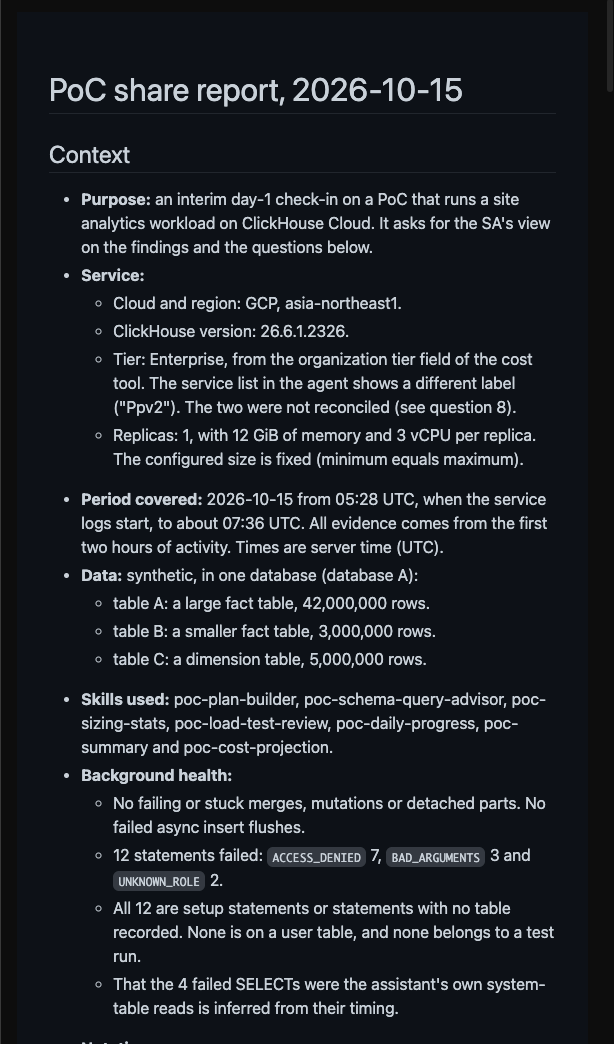
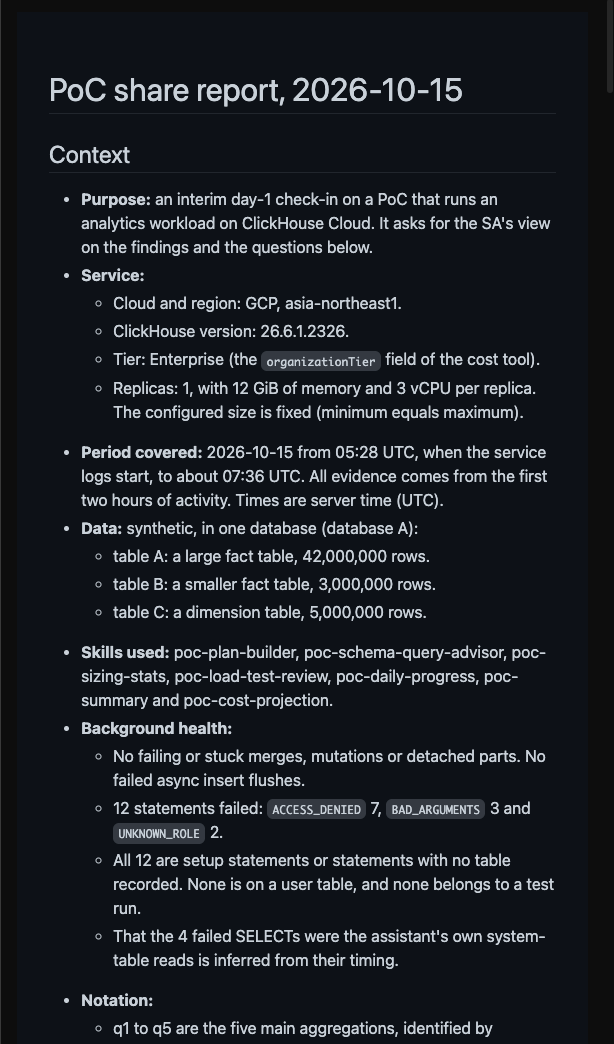
Report the tier only from organizationTier and keep the pre-check to what was read
- checks-cloud-service, sharing and poc-sizing-stats: the tier comes only from
  organizationTier; other labels from the service list are not reported as the
  tier, compared with it, or raised as a question.
- Skills that read logs: while waiting for the pre-check answer, state only
  what was read in this conversation.
- docs/images/en/5-share-report.png retaken after the fix.

Changed region(s): [[0.1238, 0.3372, 0.8974, 1.0], [0.8046, 0.1839, 0.8355, 0.2146]]

diff --git a/clickhouse-agents/skills/poc-sizing-stats/SKILL.md b/clickhouse-agents/skills/poc-sizing-stats/SKILL.md
@@ -14,7 +14,7 @@ You collect statistics used to size a production service. You read **system tabl
 - Every number you report comes from a query result in this conversation. Do not estimate, extrapolate or round beyond what is shown. If a query fails, say which one and why; do not fill the gap.
 - Do not output query text (the `query` column) unless the user explicitly asks for it. Query patterns are identified by `query_hash` (normalized_query_hash as a string, so no digits are lost).
 - Do not recommend a service size, a tier or a price. You only provide the measured inputs.
-- Before the first query, find out whether a load test or another measured run is going on now. If the user already said in this conversation that none is running (for example that the last run has ended), use that. Otherwise ask, and wait for the answer before running any query, a check of recent activity included; do not assume. If a run is going on, wait until it ends: these queries read up to 30 days of logs on every replica and would add load to the measurement.
+- Before the first query, find out whether a load test or another measured run is going on now. If the user already said in this conversation that none is running (for example that the last run has ended), use that. Otherwise ask, and wait for the answer before running any query, a check of recent activity included; do not assume. While you wait, write only what you have read in this conversation: do not state the service's state (running, idle) or any other fact you have not read with a tool. If a run is going on, wait until it ends: these queries read up to 30 days of logs on every replica and would add load to the measurement.
 - Reading system tables wakes an idled service and keeps it awake, and system tables keep about 30 days. Read `reference/checks-cloud-service.md` for these and for services in a warehouse.
 - The reference files can name queries that this skill does not list. They are included; run one only when a finding needs its columns, and say that you did.
 - When you state how ClickHouse behaves (not a number from a query), confirm it with the documentation search tool and attach the URL.
@@ -42,7 +42,7 @@ You collect statistics used to size a production service. You read **system tabl
    Before running, replace `30 /*days*/` with the chosen number of days. Run each file's SQL exactly as written otherwise.
    - If a query fails because settings cannot be changed (read-only), remove the final `SETTINGS skip_unavailable_shards = 1` line and run it again.
    - If `02_tables` returns no user tables, tell the user the connected user cannot see table metadata and stop.
-   - If a `get_services_list` tool is available, call it once and take the entry whose `id` is the service you query. Report `minReplicaMemoryGb`, `maxReplicaMemoryGb`, `numReplicas`, `idleScaling` and `idleTimeoutMinutes` as returned. These are the configured limits; `01` shows what the replicas have now. If min equals max, say that the service has a fixed size and does not scale vertically. If the tool is missing or the entry lacks a field, write "not available" for it. The tool does not return the tier: if `get_organization_cost` is available, report `organizationTier` from one day of it (see "Cloud tools" in `reference/checks-cloud-service.md`); otherwise write "not available" and do not guess it. Do not output other fields of the entry (endpoints, IP access list, IAM role).
+   - If a `get_services_list` tool is available, call it once and take the entry whose `id` is the service you query. Report `minReplicaMemoryGb`, `maxReplicaMemoryGb`, `numReplicas`, `idleScaling` and `idleTimeoutMinutes` as returned. These are the configured limits; `01` shows what the replicas have now. If min equals max, say that the service has a fixed size and does not scale vertically. If the tool is missing or the entry lacks a field, write "not available" for it. The tool does not return the tier: if `get_organization_cost` is available, report `organizationTier` from one day of it (see "Cloud tools" in `reference/checks-cloud-service.md`); otherwise write "not available" and do not guess it. Do not output other fields of the entry (endpoints, IP access list, IAM role, plan or product labels), and do not present any of them as the tier or compare them with it.
 3. Write the summary in the format below.
 4. Offer each result as a CSV the user can download (an artifact or a code block per query), named after the query file (for example `02_tables.csv`). Copy values exactly as returned. If a result has more than about 200 rows, do not retype it: say so and point to the export kit (`export.sh` or the SQL console, described in the repository's `export/README.md`), which writes the CSV directly.
 

diff --git a/reference/checks-cloud-service.md b/reference/checks-cloud-service.md
@@ -56,7 +56,7 @@ These are rules about the service and about how the skills read it. The URLs hav
 
 - **Tools**: `get_services_list`, `get_service_details`, `get_organizations`, `get_organization_cost`, `list_service_backups`, `get_service_backup_configuration`, `list_clickpipes` and `get_clickpipe` from the ClickHouse Cloud remote MCP server. In ClickHouse Agents, the built-in ClickHouse tool has only `get_services_list` of these; the others are there only when the user has added the remote MCP server to the agent as a separate connection. If a tool is missing, say so and point to the Cloud console; do not guess the value.
 - **Rule (finding the service)**: the tools that take `organizationId` need the organization of the service you query. Call `get_organizations`, then `get_services_list` with each organization ID, and take the organization whose list holds an entry with this service's `id`. Calling `get_service_details` with the wrong organization fails with an error that can name a Postgres service id; it means the wrong organization, not a wrong service. Do not output endpoints, the IP access list or the IAM role.
-- **Rule (tier)**: tiers are set per organization, so all services of an organization have the same tier. `get_service_details` and `get_organization_details` do not return it; the `organizationTier` field of the `get_organization_cost` rows does (call it for one day).
+- **Rule (tier)**: tiers are set per organization, so all services of an organization have the same tier. `get_service_details` and `get_organization_details` do not return it; the `organizationTier` field of the `get_organization_cost` rows does (call it for one day). Report the tier only from `organizationTier`. Other fields of `get_services_list` or `get_service_details` (for example a plan or product label) are not the tier: do not report them as the tier, compare them with it, or raise them as a question.
 - **Rule (cost)**: `get_organization_cost` takes `from_date` and `to_date` (at most 31 days) and returns `grandTotalCHC` for the whole organization and one row per day and entity, with `entityType` `service`, `datawarehouse` or `clickpipe`, `totalCHC` and `metrics` (for example `computeCHC`, `storageCHC`, `backupCHC`, `publicDataTransferCHC`). Call it one or two days at a time: in testing, seven days of an organization with a dozen services was longer than the tool output and was cut off. If a result is cut off, say which days are missing and do not add up a partial result. For this service, use the `service` and `clickpipe` rows whose `serviceId` is this service and the `datawarehouse` rows whose `dataWarehouseId` is this service's; the `datawarehouse` rows (storage and backups) are shared by every service in the warehouse, so say so. `grandTotalCHC` is not this service's cost. A running pipe can have no `clickpipe` row (in testing, a Pub/Sub pipe had none); say that it has no cost row rather than reporting 0. Today's row covers only part of the day. Report the values in CHC as returned; do not convert them to a currency and do not recommend a size, a tier or a price.
 - **Rule (backups)**: `list_service_backups` returns each backup's `status`, `type` (full or incremental), `startedAt`, `durationInSeconds` and `sizeInBytes`, newest first; `get_service_backup_configuration` returns `backupPeriodInHours` and `backupRetentionPeriodInHours`. They show that backups ran, how often and how long they took; they do not measure how long a restore takes, which the user measures by restoring to a new service.
 - **Rule (ClickPipes)**: `list_clickpipes` returns each pipe's `name`, `state` and `scaling`. Report the state; latency and errors are still only in the Prometheus endpoint and the console. Do not output the source's connection details (hosts, project IDs, topics, authentication).

diff --git a/clickhouse-agents/skills/poc-daily-progress/SKILL.md b/clickhouse-agents/skills/poc-daily-progress/SKILL.md
@@ -26,7 +26,7 @@ If the file or either required section is missing, say which section is missing,
 - A `nan` or NULL in a 7-day column means there is no baseline (nothing ran in that window); say "no baseline" instead of comparing. If the logs start inside the 7-day window (a new or replaced service; check `min(event_time)` of `query_log`), say how many days the baseline covers.
 - The queries leave out this connection's own reads of system tables, but keep every other query of the same database user, so a workload that runs as the same user is still counted. Queries on user tables that carry `log_comment = 'poc-assistant'` are left out; any other query on user tables over this connection is counted. That includes queries from other chats with ClickHouse Agents, which do not carry the tag: when a finding rests on untagged queries of the connection's own user (`user = currentUser()`), say so and ask the user whether they were PoC work. If SELECT or INSERT counts are unexpectedly zero, say so.
 - Do not recommend a service size, a tier or a price. Do not output user names or e-mail addresses.
-- Before the first query, find out whether a load test or another measured run is going on now. If the user already said in this conversation that none is running (for example that the last run has ended), use that. Otherwise ask, and wait for the answer before running any query, a check of recent activity included; do not assume. If a run is going on, wait until it ends: these queries read up to 30 days of logs on every replica and would add load to the measurement.
+- Before the first query, find out whether a load test or another measured run is going on now. If the user already said in this conversation that none is running (for example that the last run has ended), use that. Otherwise ask, and wait for the answer before running any query, a check of recent activity included; do not assume. While you wait, write only what you have read in this conversation: do not state the service's state (running, idle) or any other fact you have not read with a tool. If a run is going on, wait until it ends: these queries read up to 30 days of logs on every replica and would add load to the measurement.
 - Reading system tables wakes an idled service and keeps it awake, and system tables keep about 30 days. Read `reference/checks-cloud-service.md` for these and for services in a warehouse.
 - The reference files can name queries that this skill does not list. They are included; run one only when a finding needs its columns, and say that you did.
 - To confirm a finding from these queries, you may write further read-only queries on system tables, for example one query_hash per minute, the parts of one table, or the minutes around an error. Filter on `event_date` and a time range, add `LIMIT`, and do not read message text such as `exception` or `query` beyond what the listed queries already return. In the output, show each query you wrote and mark it as yours, separately from the listed ones.

diff --git a/clickhouse-agents/skills/poc-summary/SKILL.md b/clickhouse-agents/skills/poc-summary/SKILL.md
@@ -26,7 +26,7 @@ If the file, `## Target` or `## Success criteria` is missing, say which, and sto
 - System tables keep about 30 days, and on a new or replaced service they can start later than the PoC. Before measuring, find where the logs start (`min(event_time)` of `query_log` and of `part_log`, read with `clusterAllReplicas`). Days before that are "no data", not zero: fill them from `## Results` if it has them, say so, and never count them as failing a criterion.
 - The pass or fail of the PoC is the user's decision. Report each criterion as met, not met or not measured against its pass threshold, and the purpose as a question the results answer or do not answer; do not declare the PoC passed.
 - Do not recommend a service size, a tier or a price. For sizing inputs, point to the `poc-sizing-stats` skill.
-- Before the first query, find out whether a load test or another measured run is going on now. If the user already said in this conversation that none is running (for example that the last run has ended), use that. Otherwise ask, and wait for the answer before running any query, a check of recent activity included; do not assume. If a run is going on, wait until it ends: these queries read up to 30 days of logs on every replica and would add load to the measurement.
+- Before the first query, find out whether a load test or another measured run is going on now. If the user already said in this conversation that none is running (for example that the last run has ended), use that. Otherwise ask, and wait for the answer before running any query, a check of recent activity included; do not assume. While you wait, write only what you have read in this conversation: do not state the service's state (running, idle) or any other fact you have not read with a tool. If a run is going on, wait until it ends: these queries read up to 30 days of logs on every replica and would add load to the measurement.
 - Reading system tables wakes an idled service and keeps it awake. Read `reference/checks-cloud-service.md` for this and for services in a warehouse.
 - The reference files can name queries that this skill does not list. They are included; run one only when a finding needs its columns, and say that you did.
 - To confirm a finding, you may write further read-only queries on system tables. Filter on `event_date` and a time range, add `LIMIT`, and do not read message text such as `exception` or `query` beyond what the listed queries already return. Show each query you wrote in the evidence section and mark it as yours.

diff --git a/clickhouse-agents/skills/poc-schema-query-advisor/SKILL.md b/clickhouse-agents/skills/poc-schema-query-advisor/SKILL.md
@@ -16,7 +16,7 @@ You review how a ClickHouse Cloud service is designed and used, and propose impr
 - The URLs in the `reference/` files have been checked; cite them as they are without searching for them again.
 - Present recommendations as candidates to verify, not as decisions. Do not promise a speed-up or saving; say what to measure instead.
 - Do not recommend a service size, a tier or a price.
-- Before the first query, find out whether a load test or another measured run is going on now. If the user already said in this conversation that none is running (for example that the last run has ended), use that. Otherwise ask, and wait for the answer before running any query, a check of recent activity included; do not assume. If a run is going on, wait until it ends: these queries read up to 30 days of logs on every replica and would add load to the measurement.
+- Before the first query, find out whether a load test or another measured run is going on now. If the user already said in this conversation that none is running (for example that the last run has ended), use that. Otherwise ask, and wait for the answer before running any query, a check of recent activity included; do not assume. While you wait, write only what you have read in this conversation: do not state the service's state (running, idle) or any other fact you have not read with a tool. If a run is going on, wait until it ends: these queries read up to 30 days of logs on every replica and would add load to the measurement.
 - Reading system tables wakes an idled service and keeps it awake, and system tables keep about 30 days. Read `reference/checks-cloud-service.md` for these and for services in a warehouse.
 - The reference files can name queries that this skill does not list. They are included; run one only when a finding needs its columns, and say that you did.
 - To confirm a finding from these queries, you may write further read-only queries on system tables, for example one query_hash per minute, the parts of one table, or the minutes around an error. Filter on `event_date` and a time range, add `LIMIT`, and do not read message text such as `exception` or `query` beyond what the listed queries already return. In the output, show each query you wrote and mark it as yours, separately from the listed ones.

diff --git a/clickhouse-agents/skills/poc-cost-projection/SKILL.md b/clickhouse-agents/skills/poc-cost-projection/SKILL.md
@@ -15,7 +15,7 @@ You project what a production service would cost per month at list price, from w
 - The result is a list-price projection, not a quote. Say so at the top, with the date of the rates, and point to the calculator on https://clickhouse.com/pricing for a quotable figure.
 - Do not recommend a size, a tier or a price. The production assumptions are the user's; for measured sizing inputs, point to the `poc-sizing-stats` skill.
 - Every number comes from a query or tool result in this conversation, from the price list fetched in this conversation, or from the user. Label each with where it came from. If a query or tool fails, say which and why; do not fill the gap.
-- Before the first query, find out whether a load test or another measured run is going on now. If the user already said in this conversation that none is running (for example that the last run has ended), use that. Otherwise ask, and wait for the answer before running any query, a check of recent activity included; do not assume. If a run is going on, wait until it ends.
+- Before the first query, find out whether a load test or another measured run is going on now. If the user already said in this conversation that none is running (for example that the last run has ended), use that. Otherwise ask, and wait for the answer before running any query, a check of recent activity included; do not assume. While you wait, write only what you have read in this conversation: do not state the service's state (running, idle) or any other fact you have not read with a tool. If a run is going on, wait until it ends.
 - Reading system tables wakes an idled service and keeps it awake. Read `reference/checks-cloud-service.md` for this, for services in a warehouse and for the Cloud tools.
 - Do not output user names or e-mail addresses, and do not output endpoints, the IP access list, the IAM role or ClickPipes source details.
 - Show the notice only as "When to show the notice" in `reference/sharing.md` says (first answer of a conversation, and decision outputs). When the user wants to share the results with ClickHouse, point to the `poc-share-report` skill.

diff --git a/reference/sharing.md b/reference/sharing.md
@@ -9,7 +9,7 @@ Rules every skill follows, so that what the assistant finds does not stay only w
 
 ## What a share report may contain
 
-- **Allowed**: the skill that produced each finding and the period it covered; the service's cloud, region, ClickHouse version, tier, replica count and memory per replica; numbers that are aggregates (counts, bytes, ratios, percentiles, CPU seconds, CHC); `query_hash` values; error codes and their counts; the names of the checks used and their URLs; each success criterion's metric, pass threshold, result and status; questions for the SA.
+- **Allowed**: the skill that produced each finding and the period it covered; the service's cloud, region, ClickHouse version, tier (from `organizationTier` only; never another label from the service list, and no comparison with one), replica count and memory per replica; numbers that are aggregates (counts, bytes, ratios, percentiles, CPU seconds, CHC); `query_hash` values; error codes and their counts; the names of the checks used and their URLs; each success criterion's metric, pass threshold, result and status; questions for the SA.
 - **Not allowed**: row values from any table; query text, `sample_query` or any literal value taken from a query; database, table, column, view, dictionary and ClickPipe names (replace each with a label such as `table A`, `column A.1`, the same label for the same name throughout); user names, e-mail addresses, IP addresses, hostnames, endpoints, IAM roles, organization and service IDs, access key IDs; ClickPipes source details; the text of the PoC plan beyond the criteria's metric, threshold and status; file names the user attached.
 - **Rule**: when a finding cannot be stated without a not-allowed item (for example, it is about a specific value), describe it in general terms ("a filter on a high-cardinality string column") or leave it out and list it as left out. When you describe what a label stands for, use its role ("a fact table", "a dimension table"), not a word that is part of its real name (for example, not "an orders table" for a table named `orders`).
 
